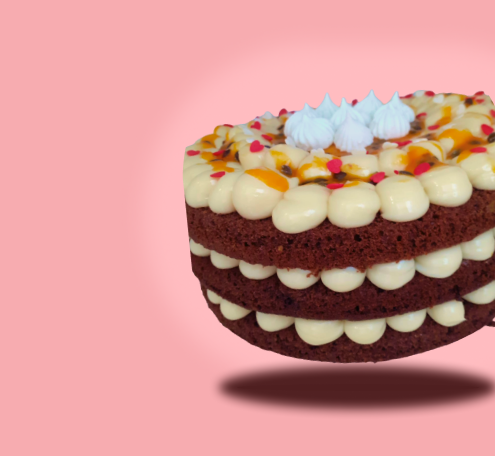
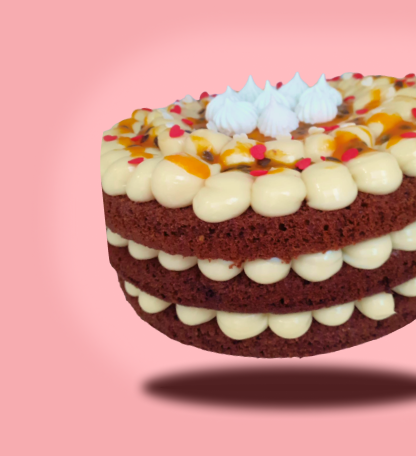
added imagem bolo and ajust layout

diff --git a/pages/index.js b/pages/index.js
@@ -14,6 +14,12 @@ import { Fragment } from "react";
 
 
 const Content = styled.header`
+  background-image: url('./img/Frame 1.png');
+  background-color: rgba(200, 0, 0, 0.2);
+  background-blend-mode: multiply;
+  background-attachment: fixed;
+  
+
   display: grid;
   grid-template-columns: repeat(6, 1fr);
   grid-template-rows: repeat(10, 1fr);
@@ -23,15 +29,15 @@ const Content = styled.header`
 
   grid-template-areas:
     "nav nav nav nav nav nav"
-    "aside-text aside-text    aside-img aside-img aside-img aside-img"
-    "aside-text aside-text    aside-img aside-img aside-img aside-img"
-    "aside-text aside-text    aside-img aside-img aside-img aside-img"
-    "aside-text aside-text    aside-img aside-img aside-img aside-img"
-    "aside-text aside-text    aside-img aside-img aside-img aside-img"
-    "aside-text aside-text    aside-img aside-img aside-img aside-img"
-    "aside-text aside-text    aside-img aside-img aside-img aside-img"
-    "aside-text aside-text    aside-img aside-img aside-img aside-img"
-    "aside-text aside-text    aside-img aside-img aside-img aside-img";
+    "aside-text aside-text  aside-text  aside-img aside-img aside-img"
+    "aside-text aside-text  aside-text  aside-img aside-img aside-img"
+    "aside-text aside-text  aside-text  aside-img aside-img aside-img"
+    "aside-text aside-text  aside-text  aside-img aside-img aside-img"
+    "aside-text aside-text  aside-text  aside-img aside-img aside-img"
+    "aside-text aside-text  aside-text  aside-img aside-img aside-img"
+    "aside-text aside-text  aside-text  aside-img aside-img aside-img"
+    "aside-text aside-text  aside-text  aside-img aside-img aside-img"
+    "aside-text aside-text  aside-text  aside-img aside-img aside-img";
 
   @media only screen and (max-width: 790px) {
     
@@ -69,7 +75,7 @@ const Home = (props) => {
           <link rel="preconnect" href="https://fonts.gstatic.com"/>
           <link rel="preconnect" href="https://fonts.gstatic.com"/>
           <link href="https://fonts.googleapis.com/css2?family=Dancing+Script:wght@600&family=Sulphur+Point&display=swap" rel="stylesheet"/>
-          <title>-- Marion Arteira --</title>
+          <title>Aromas Cake - Confeitaria</title>
         </Head>
         <Fragment>
           <Content>  

diff --git a/Components/HeaderViewImg.js b/Components/HeaderViewImg.js
@@ -2,7 +2,11 @@ import styled from "styled-components";
 
 
 const AsideImg = styled.aside`
- 
+ /* border-top: 20px solid #AC893C; */
+ border-bottom: 30px solid #AC893C;
+ border-left: 20px solid #AC893C;
+ /* box-shadow: -10px 0px 20px  lightgray; */
+
 grid-area: aside-img;
 
     display: flex;
@@ -11,8 +15,8 @@ grid-area: aside-img;
     background-image:url('/img/background.png');
     background-size: cover;
     background-position: center;
-    border-bottom-left-radius: 30%;
-    border-top-left-radius: 30%;
+    border-bottom-left-radius: 50%;
+    border-top-left-radius: 50%;
 
 `
 
